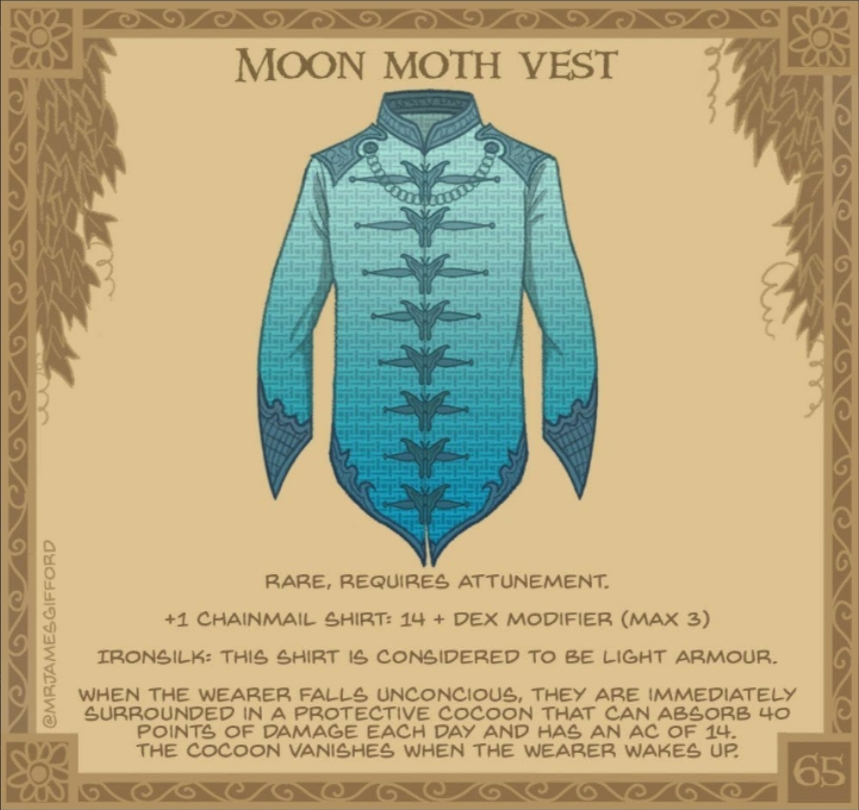
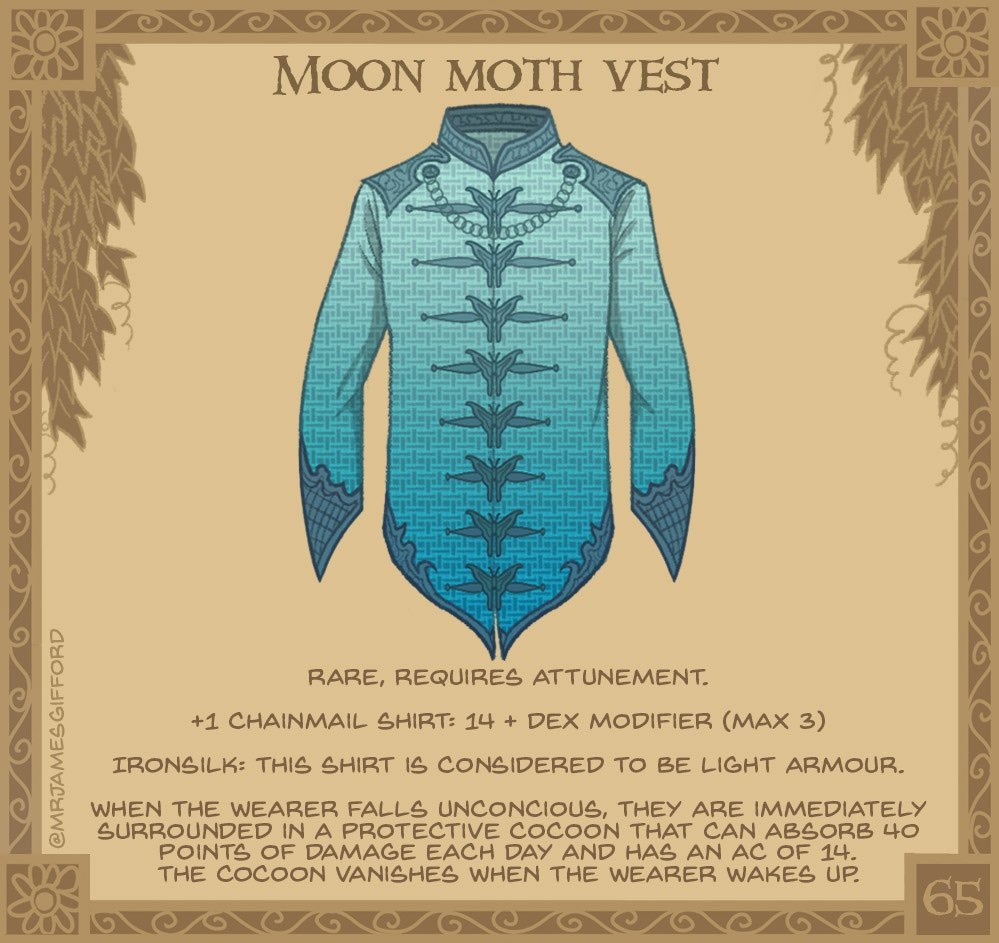
items gallery fix, dots and center

diff --git a/items.html b/items.html
@@ -59,13 +59,7 @@
         <h1>Items Mágicos</h1>
     </div>
 
-    <div class="dot-container" style="text-align:center">
-        <span class="dot" onclick="currentSlide(1)"></span>
-        <span class="dot" onclick="currentSlide(2)"></span>
-        <span class="dot" onclick="currentSlide(3)"></span>
-        <span class="dot" onclick="currentSlide(3)"></span>
 
-    </div>
 
     <div class="slideshow-container">
 
@@ -90,7 +84,7 @@
         </div>
 
         <div class="mySlides fade">
-            <img src="img/item4.jpg" style="width:100%">
+            <img class="imgSepia" src="img/item4.jpg" style="width:100%">
 
         </div>
 
@@ -99,7 +93,13 @@
 
     </div>
 
+    <div class="dot-container" style="text-align:center">
+        <span class="dot" onclick="currentSlide(1)"></span>
+        <span class="dot" onclick="currentSlide(2)"></span>
+        <span class="dot" onclick="currentSlide(3)"></span>
+        <span class="dot" onclick="currentSlide(3)"></span>
 
+    </div>
 
 
     <footer>

diff --git a/estilos.css b/estilos.css
@@ -503,7 +503,9 @@ table {
     height: 500px;
     position: relative;
     margin: auto;
-    top: -40px;
+    top: -20px;
+    display: flex;
+    align-items: center;
 }
 .slideshow-container img {
     vertical-align: middle;
@@ -513,6 +515,9 @@ table {
     position: absolute;
     margin: auto;
     z-index: -1;
+}
+.imgSepia{
+    filter: sepia(2);
 }
 .prev, .next {
     cursor: pointer;
@@ -560,7 +565,7 @@ table {
   }
   .dot-container{
       position: relative;
-      top: -45px;
+      bottom:-40px;
   }
   .dot {
     cursor: pointer;
@@ -574,7 +579,8 @@ table {
     transition: background-color 0.6s ease;
   }
   
-  .active, .dot:hover {
+.active, .dot:hover {
     background-color: #555;
-  }
+    box-shadow: 0 0 20px #fff;
+}
   
